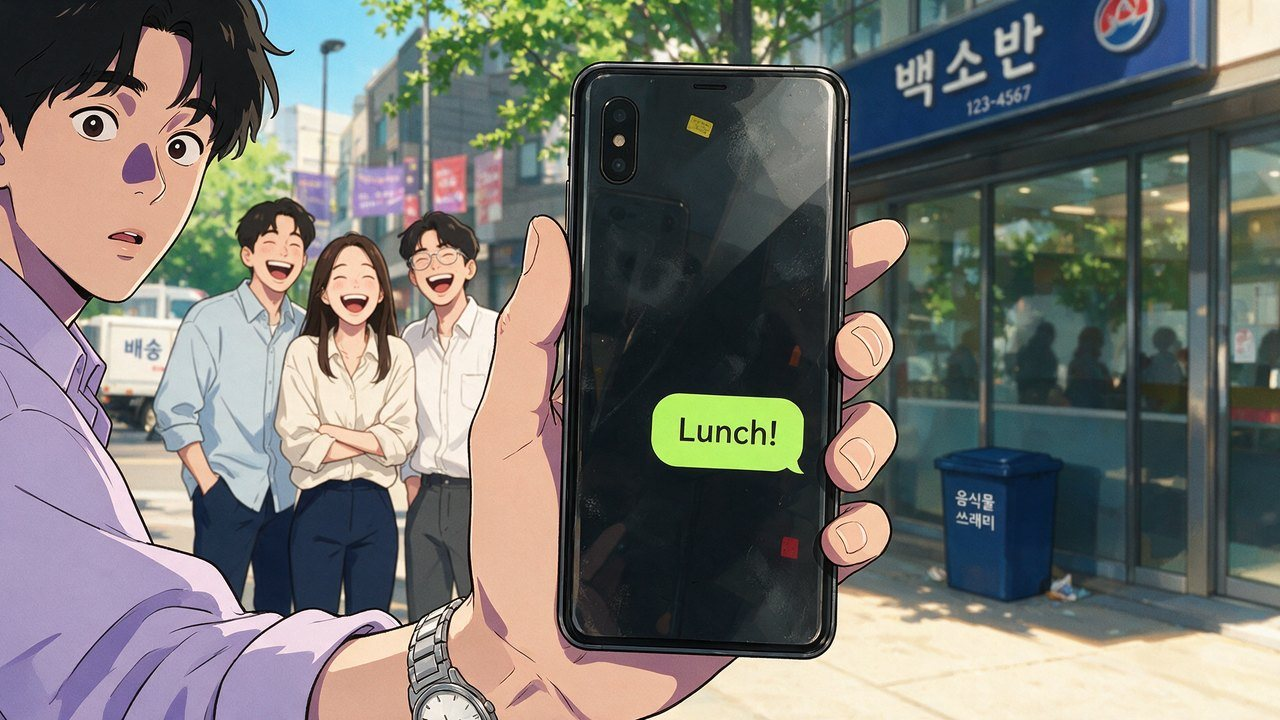
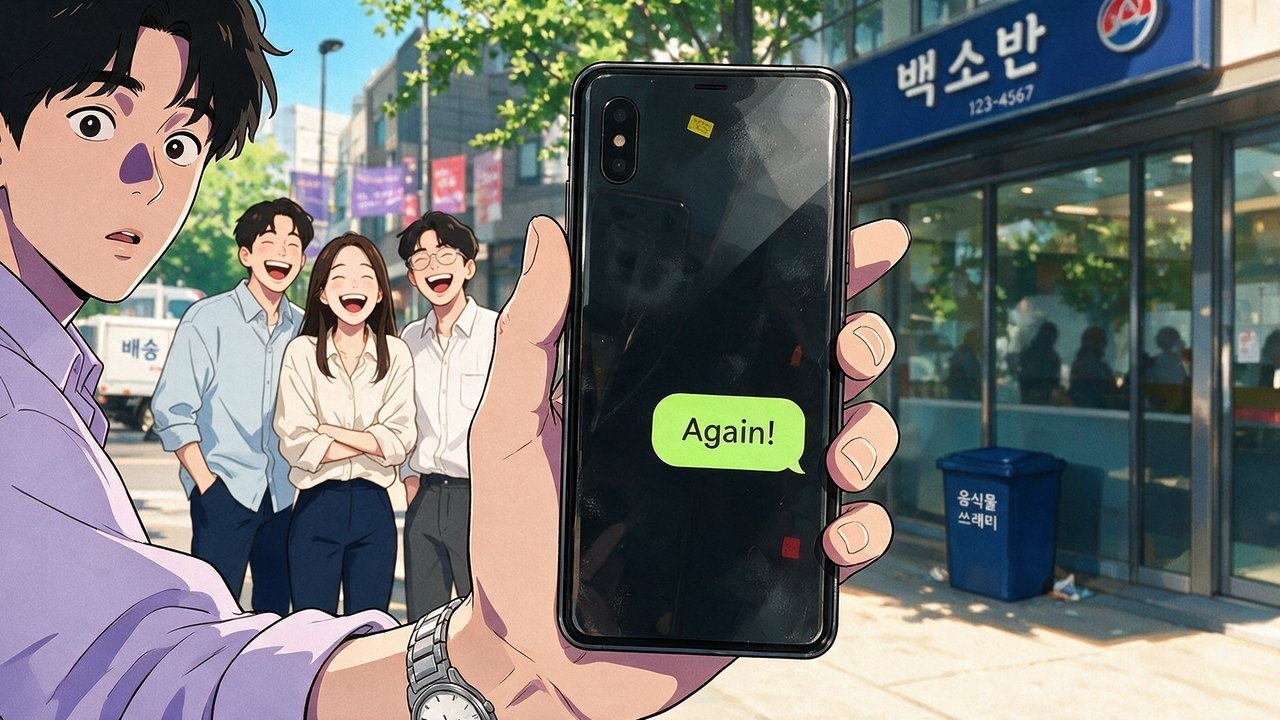
Misaeng ms_text edited: the phone reads 'Again!' (Han's reply to the three PT ideas, Plot). stills.json and tk-cutscene.js bumped. Cost $0.045
Claude-Session: https://claude.ai/code/session_01PgFWANZ31jD9jaHVPjMEnq

diff --git a/tk-cutscene.js b/tk-cutscene.js
@@ -724,7 +724,7 @@ const WorldCutscene = {
   // the prop atlas (props, emote bubbles, gift icons), loaded once per game
   // the stills that exist (tools/gen_stills.py writes assets/tk/stills/stills.json), fetched once
   stillIndex() {
-    if (!this._stills) this._stills = fetch("assets/tk/stills/stills.json?v=35").then(r => r.ok ? r.json() : {}).catch(() => ({}));
+    if (!this._stills) this._stills = fetch("assets/tk/stills/stills.json?v=36").then(r => r.ok ? r.json() : {}).catch(() => ({}));
     return this._stills;
   },
   stillSrc(m) { return `assets/tk/stills/${m.file}?v=${m.made || ""}${m.look || ""}`; },   // a redone still is fetched anew

diff --git a/index.html b/index.html
@@ -30,7 +30,7 @@
 <script src="tk-world.js?v=305"></script>
 <script src="tk-items.js?v=10"></script>
 <script src="tk-feats.js?v=6"></script>
-<script src="tk-cutscene.js?v=82"></script>
+<script src="tk-cutscene.js?v=83"></script>
 <script src="tk-music.js?v=6"></script>
 <script src="tk-travel.js?v=16"></script>
 <script src="app.js?v=70"></script>
